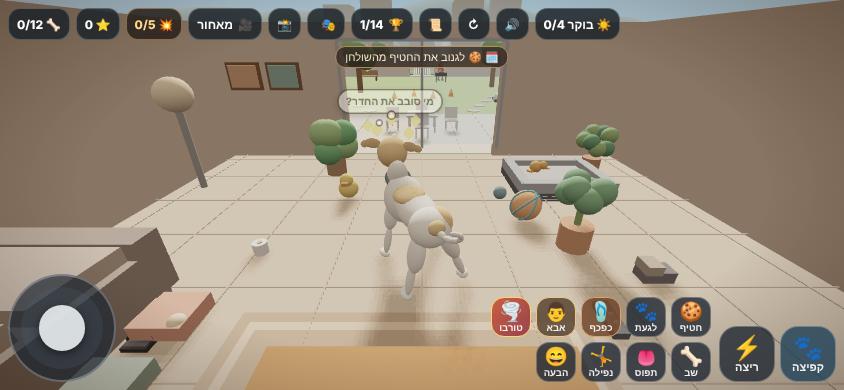
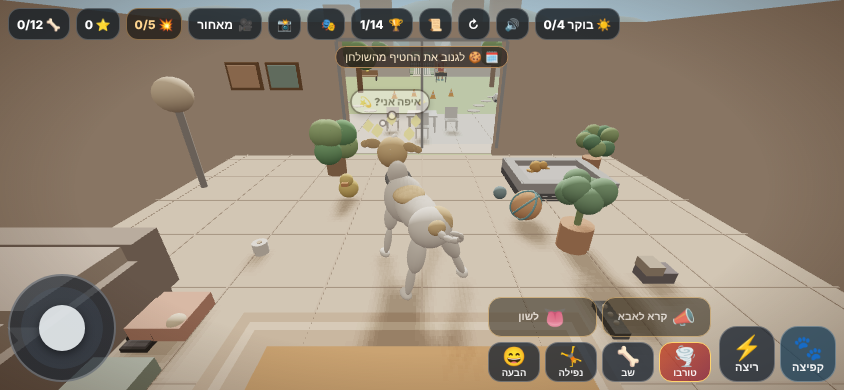
v21: instant touch buttons (fire on touch-down, multi-touch safe) + smart context buttons (action / grab)
Claude-Session: https://claude.ai/code/session_01MaZxSxBw2V6AYJVaa3z3wg

Changed region(s): [[0.5545, 0.7385, 0.8626, 0.9846], [0.4005, 0.2154, 0.5237, 0.3385]]

diff --git a/dist/index.html b/dist/index.html
@@ -152,6 +152,18 @@ body.photoMode #uiTop,body.photoMode #controls,body.photoMode #drawers,body.phot
 #photoBar button{width:48px;height:48px;border-radius:50%;border:1px solid #ffffff40;background:#2a3038;color:#fff;font-size:20px;cursor:pointer;touch-action:manipulation}
 #photoBar #photoSnap{width:64px;height:64px;font-size:28px;background:#f2b84b;border-color:#fff}
 #photoBar p{flex-basis:100%;margin:0;text-align:center;font:600 11px system-ui;color:#fff9;}
+
+/* ---------- Smart controls: two context buttons that show what they will do ---------- */
+#snackBtn,#interactBtn,#slipperBtn,#dadInteractBtn,#tongueBtn{display:none!important}
+#icons{grid-template-columns:repeat(4,var(--b))!important}
+#icons .ctx{grid-column:span 2;background:#2a2116e0;border-color:#c9a160;font-size:22px;flex-direction:row;gap:6px;padding:0 6px}
+#icons .ctx small{font-size:12px;max-width:none}
+#icons .ctx.live{border-color:#ffd166;background:#5a3d14e6;box-shadow:0 0 0 2px #ffd16644}
+#icons .ctx.dim{opacity:.62}
+#icons .ctx.pulse{animation:ctxPulse .5s ease-out}
+@keyframes ctxPulse{0%{box-shadow:0 0 0 0 #ffd166cc}100%{box-shadow:0 0 0 10px #ffd16600}}
+@media (max-aspect-ratio:1/1){#icons{grid-template-columns:repeat(4,1fr)!important}}
+@media (max-height:480px){#icons{grid-template-columns:repeat(4,52px)!important}#icons .ctx{font-size:19px;gap:4px;padding:0 4px}#icons .ctx small{font-size:10.5px}}
 </style></head><body><div id="uiTop">
  <div id="hud"><h1>🐶 מילקי: ברדק אחולמניוקי</h1><p id="status">המשימה: גנוב את הכפכף של אבא והחבא אותו במיטה 🩴</p><button id="reset" class="chip" title="התחלה מחדש" aria-label="התחלה מחדש">↻</button></div>
  <div id="toolbar">
@@ -181,6 +193,8 @@ body.photoMode #uiTop,body.photoMode #controls,body.photoMode #drawers,body.phot
  <div id="pad"><span class="empty"></span><button class="tb" data-key="KeyW" aria-label="קדימה">▲</button><span class="empty"></span><button class="tb" data-key="KeyA" aria-label="שמאלה">◀</button><button class="tb" data-key="KeyS" aria-label="אחורה">▼</button><button class="tb" data-key="KeyD" aria-label="ימינה">▶</button></div>
  <div id="stick" role="application" aria-label="ג׳ויסטיק תנועה"><div id="knob"></div></div>
  <div id="icons">
+  <button id="actBtn" class="tb ctx" type="button" title="פעולה (E)"><b>🐾</b><small>לגעת</small></button>
+  <button id="grabBtn" class="tb ctx" type="button" title="תפוס / שחרר (T)"><b>👅</b><small>תפוס</small></button>
   <button id="snackBtn" class="tb" title="חטיף (E על השולחן)"><b>🍪</b><small>חטיף</small></button>
   <button id="interactBtn" class="tb" title="לגעת בחפץ (E)"><b>🐾</b><small>לגעת</small></button>
   <button id="slipperBtn" class="tb" title="תפוס / שחרר כפכף (P)"><b>🩴</b><small>כפכף</small></button>
@@ -2082,7 +2096,7 @@ for(const c of roundBlockers()){
 }
 landingCooldown=Math.max(0,landingCooldown-dt);
 // Paws planted on the floor: stride rate matches ground speed (longer strides in a gallop), so the legs never treadmill.
-steps+=Math.abs(speed)*dt*THREE.MathUtils.lerp(3.35,1.95,runBlend)/MS;{const fp=Math.floor(steps/Math.PI);if(fp!==lastFootPhase){lastFootPhase=fp;if(grounded&&!rag.active&&lastDogSpeed>.6){SFX.step(lastDogSpeed>4,pos.z<-15.9);if(lastDogSpeed>4&&pos.z<-9.1)emit(pos.x-Math.sin(yaw)*.7*MS,.08,pos.z-Math.cos(yaw)*.7*MS,-Math.sin(yaw)*.6,.5,-Math.cos(yaw)*.6,'dust',.45)}}}updateToy(dt);updateScene(dt);updateChaos(dt);updateTurbo(dt);updateExtra(dt);updateKitchen(dt);updateDani(dt);updateYard(dt);updateDay(dt);updateModes(dt,performance.now()/1000);updateEvents(dt);if(window.BATH_READY)updateBath(dt);if(window.SHOP_READY)updateShop(dt);if(window.SICK_READY)updateSick(dt);if(window.PARK_READY)updatePark(dt);resolveBodies(dt);tickBubbles(dt);updateContextHint();if(chaosStage>=5)completeChallenge('chaos');
+steps+=Math.abs(speed)*dt*THREE.MathUtils.lerp(3.35,1.95,runBlend)/MS;{const fp=Math.floor(steps/Math.PI);if(fp!==lastFootPhase){lastFootPhase=fp;if(grounded&&!rag.active&&lastDogSpeed>.6){SFX.step(lastDogSpeed>4,pos.z<-15.9);if(lastDogSpeed>4&&pos.z<-9.1)emit(pos.x-Math.sin(yaw)*.7*MS,.08,pos.z-Math.cos(yaw)*.7*MS,-Math.sin(yaw)*.6,.5,-Math.cos(yaw)*.6,'dust',.45)}}}updateToy(dt);updateScene(dt);updateChaos(dt);updateTurbo(dt);updateExtra(dt);updateKitchen(dt);updateDani(dt);updateYard(dt);updateDay(dt);updateModes(dt,performance.now()/1000);updateEvents(dt);if(window.BATH_READY)updateBath(dt);if(window.SHOP_READY)updateShop(dt);if(window.SICK_READY)updateSick(dt);if(window.PARK_READY)updatePark(dt);if(window.CTRL_READY)updateCtxButtons(dt);resolveBodies(dt);tickBubbles(dt);updateContextHint();if(chaosStage>=5)completeChallenge('chaos');
 const moving=Math.abs(speed)>0.01;
 runBlend+=(THREE.MathUtils.smoothstep(Math.abs(speed),3.3,5.4)-runBlend)*Math.min(1,dt*6);
 const running=moving&&runBlend>.5;
@@ -2810,7 +2824,7 @@ function updateGuide(rdt,t){
  const p=PHOTO.on?null:currentTarget();
  if(!p){guide.visible=false;guideArrow.hidden=true;return}
  const dist=Math.hypot(p.x-pos.x,p.z-pos.z);
- guide.visible=dist>1.7;guide.position.set(p.x,(p.y||0)+.95+Math.sin(t*3)*.12,p.z);guide.rotation.y=t*1.6;
+ guide.position.set(p.x,(p.y||0)+.95+Math.sin(t*3)*.12,p.z);guide.rotation.y=t*1.6;guide.visible=dist>1.7&&guide.position.distanceTo(camera.position)>2.6;
  _gv.set(p.x,(p.y||0)+1,p.z).project(camera);
  const off=_gv.z>1||Math.abs(_gv.x)>.92||Math.abs(_gv.y)>.85;
  if(!off||dist<1.7){guideArrow.hidden=true;return}
@@ -3063,6 +3077,55 @@ function updatePark(dt){
 }
 window.PARK_READY=true;
 loadWeekPhases();renderDay();renderWeek();
+// ===== Smart touch controls: instant response + two context buttons (action / grab) =====
+const actBtn=document.getElementById('actBtn'),grabBtn=document.getElementById('grabBtn');
+const KIND_ICON={tp:'🧻',shampoo:'🧴',baguette:'🥖',tissues:'🤧',thermo:'🌡',bowl:'🥣',can:'🥫',receipt:'🧾',bottle:'🧴',book:'📚',shoe:'👟',duck:'🦆',remote:'📺',trash:'🗑',chair:'🪑',cone:'🔺',cooler:'🧊',bin:'🗑',soccer:'⚽',cushion:'🛋',box:'📦',ball:'⚽'};
+const KIND_NAME={tp:'נייר',shampoo:'שמפו',baguette:'בגט',tissues:'טישו',thermo:'מדחום',bowl:'קערה',can:'קופסה',receipt:'קבלה',bottle:'בקבוק',book:'ספר',shoe:'נעל',duck:'ברווז',remote:'שלט',trash:'פח',chair:'כיסא',cone:'קונוס',cooler:'צידנית',bin:'פח',soccer:'כדור',cushion:'כרית',box:'ארגז',ball:'כדור'};
+const ACT_LABEL={remote:'שלט',duck:'צפצף',bottle:'גלגל',shoe:'העף נעל',book:'פזר',trash:'הפוך פח',bowl:'לאכול',chair:'הפל',cone:'בעט',cooler:'דחוף',bin:'הפל',soccer:'בעט',tp:'גלגל',shampoo:'בועות',baguette:'דחוף',can:'בעט',receipt:'אכול קבלה',tissues:'דחוף',thermo:'דחוף'};
+function grabCandidate(){const m=mouthPos();let best=null,bd=1.45;for(const b of bodies){if(carried.has(b.o)||!b.o.visible)continue;const d=Math.hypot(b.o.position.x-m.x,b.o.position.z-m.z)-b.r;if(d<bd){bd=d;best=b}}return best}
+function grabInfo(){
+ if(grab)return {i:'⬇',l:'שחרר',on:2,fn:toggleGrab};
+ if(slipperState==='carried')return {i:'⬇',l:'שחרר כפכף',on:2,fn:dropSlipper};
+ if(kebabState==='carried')return {i:'🍢',l:'ברח!',on:0,fn:()=>{}};
+ if(slipperState==='floor'&&Math.hypot(pos.x-slipper.position.x,pos.z-slipper.position.z)<1.45)return {i:'🩴',l:'כפכף',on:1,fn:stealSlipper};
+ if(nearMangal()&&kebabState==='grill')return {i:'🍢',l:'קבב!',on:1,fn:stealKebab};
+ const b=grabCandidate();
+ if(b){const small=b.r<=.3&&!BIG_KINDS.includes(b.kind);return {i:KIND_ICON[b.kind]||'👅',l:(small?'תפוס ':'גרור ')+(KIND_NAME[b.kind]||''),on:1,fn:toggleGrab}}
+ return {i:'👅',l:'לשון',on:0,fn:toggleGrab};
+}
+function actInfo(){
+ if(!won&&jumpY>=.78&&Math.hypot(pos.x-.5,pos.z-.3)<1.9&&snack.visible)return {i:'🍪',l:'חטיף!',on:1,fn:trySnack};
+ if(slipperState==='carried')return {i:'⬇',l:'שחרר',on:2,fn:dropSlipper};
+ if(nearSausage())return {i:'🌭',l:'נקניקייה',on:1,fn:interact};
+ if(nearFridge())return {i:'🧊',l:fridgeOpen?'סגור מקרר':'פתח מקרר',on:1,fn:interact};
+ if(nearMangal()&&kebabState==='grill')return {i:'🍢',l:'קבב!',on:1,fn:interact};
+ const dd=dad.visible?Math.hypot(pos.x-dad.position.x,pos.z-dad.position.z):99;
+ let near=null,d=1.65;for(const p of extras){if(!p.g.visible||carried.has(p.g))continue;const q=Math.hypot(pos.x-p.g.position.x,pos.z-p.g.position.z);if(q<d){near=p;d=q}}
+ if(dd<1.9&&(!near||dd<d))return {i:'👨',l:'ליטוף',on:1,fn:interactDad};
+ if(near)return {i:KIND_ICON[near.kind]||'🐾',l:ACT_LABEL[near.kind]||'לגעת',on:1,fn:interact};
+ if(dad.visible&&dadState!=='away')return {i:'📣',l:'קרא לאבא',on:0,fn:interactDad};
+ return {i:'🐽',l:'רחרח',on:0,fn:interact};
+}
+let ctxT=0,ctxAct=null,ctxGrab=null;
+function paintCtx(btn,info,prev){
+ if(prev&&prev.i===info.i&&prev.l===info.l&&prev.on===info.on)return;
+ btn.firstChild.textContent=info.i;btn.lastChild.textContent=info.l;btn.classList.toggle('live',info.on>=1);btn.classList.toggle('dim',info.on===0);
+ if(info.on>=1&&(!prev||prev.on===0||prev.l!==info.l)){btn.classList.remove('pulse');void btn.offsetWidth;btn.classList.add('pulse')}
+}
+function updateCtxButtons(dt){
+ ctxT-=dt;if(ctxT>0)return;ctxT=.1;
+ const a=actInfo(),g=grabInfo();paintCtx(actBtn,a,ctxAct);paintCtx(grabBtn,g,ctxGrab);ctxAct=a;ctxGrab=g;
+}
+actBtn.addEventListener('click',()=>{if(!started)return;const a=actInfo();a.fn();ctxT=0});
+grabBtn.addEventListener('click',()=>{if(!started)return;const g=grabInfo();g.fn();ctxT=0});
+// Instant buttons: fire on touch-down (works while the other thumb holds the joystick), swallow the late click.
+let ctrlAllowClick=false;
+window.addEventListener('click',e=>{const b=e.target.closest&&e.target.closest('#controls .tb:not([data-key])');if(!b||ctrlAllowClick)return;if(performance.now()-(b._pd||0)<900){e.stopImmediatePropagation();e.preventDefault()}},true);
+document.querySelectorAll('#controls .tb:not([data-key])').forEach(b=>{
+ b.addEventListener('pointerdown',e=>{if(e.button>0)return;e.preventDefault();b._pd=performance.now();b.classList.add('down');setTimeout(()=>b.classList.remove('down'),130);ctrlAllowClick=true;try{b.click()}finally{ctrlAllowClick=false}});
+ b.addEventListener('contextmenu',e=>e.preventDefault());
+});
+window.CTRL_READY=true;
 (function mergeAll(){
  scene.updateMatrixWorld(true);
  // 1) Static scenery: merge per area, so whole rooms you cannot see are skipped by the GPU.

diff --git a/dist/artifact.html b/dist/artifact.html
@@ -155,6 +155,18 @@ body.photoMode #uiTop,body.photoMode #controls,body.photoMode #drawers,body.phot
 #photoBar button{width:48px;height:48px;border-radius:50%;border:1px solid #ffffff40;background:#2a3038;color:#fff;font-size:20px;cursor:pointer;touch-action:manipulation}
 #photoBar #photoSnap{width:64px;height:64px;font-size:28px;background:#f2b84b;border-color:#fff}
 #photoBar p{flex-basis:100%;margin:0;text-align:center;font:600 11px system-ui;color:#fff9;}
+
+/* ---------- Smart controls: two context buttons that show what they will do ---------- */
+#snackBtn,#interactBtn,#slipperBtn,#dadInteractBtn,#tongueBtn{display:none!important}
+#icons{grid-template-columns:repeat(4,var(--b))!important}
+#icons .ctx{grid-column:span 2;background:#2a2116e0;border-color:#c9a160;font-size:22px;flex-direction:row;gap:6px;padding:0 6px}
+#icons .ctx small{font-size:12px;max-width:none}
+#icons .ctx.live{border-color:#ffd166;background:#5a3d14e6;box-shadow:0 0 0 2px #ffd16644}
+#icons .ctx.dim{opacity:.62}
+#icons .ctx.pulse{animation:ctxPulse .5s ease-out}
+@keyframes ctxPulse{0%{box-shadow:0 0 0 0 #ffd166cc}100%{box-shadow:0 0 0 10px #ffd16600}}
+@media (max-aspect-ratio:1/1){#icons{grid-template-columns:repeat(4,1fr)!important}}
+@media (max-height:480px){#icons{grid-template-columns:repeat(4,52px)!important}#icons .ctx{font-size:19px;gap:4px;padding:0 4px}#icons .ctx small{font-size:10.5px}}
 </style>
 <div id="uiTop">
  <div id="hud"><h1>🐶 מילקי: ברדק אחולמניוקי</h1><p id="status">המשימה: גנוב את הכפכף של אבא והחבא אותו במיטה 🩴</p><button id="reset" class="chip" title="התחלה מחדש" aria-label="התחלה מחדש">↻</button></div>
@@ -185,6 +197,8 @@ body.photoMode #uiTop,body.photoMode #controls,body.photoMode #drawers,body.phot
  <div id="pad"><span class="empty"></span><button class="tb" data-key="KeyW" aria-label="קדימה">▲</button><span class="empty"></span><button class="tb" data-key="KeyA" aria-label="שמאלה">◀</button><button class="tb" data-key="KeyS" aria-label="אחורה">▼</button><button class="tb" data-key="KeyD" aria-label="ימינה">▶</button></div>
  <div id="stick" role="application" aria-label="ג׳ויסטיק תנועה"><div id="knob"></div></div>
  <div id="icons">
+  <button id="actBtn" class="tb ctx" type="button" title="פעולה (E)"><b>🐾</b><small>לגעת</small></button>
+  <button id="grabBtn" class="tb ctx" type="button" title="תפוס / שחרר (T)"><b>👅</b><small>תפוס</small></button>
   <button id="snackBtn" class="tb" title="חטיף (E על השולחן)"><b>🍪</b><small>חטיף</small></button>
   <button id="interactBtn" class="tb" title="לגעת בחפץ (E)"><b>🐾</b><small>לגעת</small></button>
   <button id="slipperBtn" class="tb" title="תפוס / שחרר כפכף (P)"><b>🩴</b><small>כפכף</small></button>
@@ -2084,7 +2098,7 @@ for(const c of roundBlockers()){
 }
 landingCooldown=Math.max(0,landingCooldown-dt);
 // Paws planted on the floor: stride rate matches ground speed (longer strides in a gallop), so the legs never treadmill.
-steps+=Math.abs(speed)*dt*THREE.MathUtils.lerp(3.35,1.95,runBlend)/MS;{const fp=Math.floor(steps/Math.PI);if(fp!==lastFootPhase){lastFootPhase=fp;if(grounded&&!rag.active&&lastDogSpeed>.6){SFX.step(lastDogSpeed>4,pos.z<-15.9);if(lastDogSpeed>4&&pos.z<-9.1)emit(pos.x-Math.sin(yaw)*.7*MS,.08,pos.z-Math.cos(yaw)*.7*MS,-Math.sin(yaw)*.6,.5,-Math.cos(yaw)*.6,'dust',.45)}}}updateToy(dt);updateScene(dt);updateChaos(dt);updateTurbo(dt);updateExtra(dt);updateKitchen(dt);updateDani(dt);updateYard(dt);updateDay(dt);updateModes(dt,performance.now()/1000);updateEvents(dt);if(window.BATH_READY)updateBath(dt);if(window.SHOP_READY)updateShop(dt);if(window.SICK_READY)updateSick(dt);if(window.PARK_READY)updatePark(dt);resolveBodies(dt);tickBubbles(dt);updateContextHint();if(chaosStage>=5)completeChallenge('chaos');
+steps+=Math.abs(speed)*dt*THREE.MathUtils.lerp(3.35,1.95,runBlend)/MS;{const fp=Math.floor(steps/Math.PI);if(fp!==lastFootPhase){lastFootPhase=fp;if(grounded&&!rag.active&&lastDogSpeed>.6){SFX.step(lastDogSpeed>4,pos.z<-15.9);if(lastDogSpeed>4&&pos.z<-9.1)emit(pos.x-Math.sin(yaw)*.7*MS,.08,pos.z-Math.cos(yaw)*.7*MS,-Math.sin(yaw)*.6,.5,-Math.cos(yaw)*.6,'dust',.45)}}}updateToy(dt);updateScene(dt);updateChaos(dt);updateTurbo(dt);updateExtra(dt);updateKitchen(dt);updateDani(dt);updateYard(dt);updateDay(dt);updateModes(dt,performance.now()/1000);updateEvents(dt);if(window.BATH_READY)updateBath(dt);if(window.SHOP_READY)updateShop(dt);if(window.SICK_READY)updateSick(dt);if(window.PARK_READY)updatePark(dt);if(window.CTRL_READY)updateCtxButtons(dt);resolveBodies(dt);tickBubbles(dt);updateContextHint();if(chaosStage>=5)completeChallenge('chaos');
 const moving=Math.abs(speed)>0.01;
 runBlend+=(THREE.MathUtils.smoothstep(Math.abs(speed),3.3,5.4)-runBlend)*Math.min(1,dt*6);
 const running=moving&&runBlend>.5;
@@ -2812,7 +2826,7 @@ function updateGuide(rdt,t){
  const p=PHOTO.on?null:currentTarget();
  if(!p){guide.visible=false;guideArrow.hidden=true;return}
  const dist=Math.hypot(p.x-pos.x,p.z-pos.z);
- guide.visible=dist>1.7;guide.position.set(p.x,(p.y||0)+.95+Math.sin(t*3)*.12,p.z);guide.rotation.y=t*1.6;
+ guide.position.set(p.x,(p.y||0)+.95+Math.sin(t*3)*.12,p.z);guide.rotation.y=t*1.6;guide.visible=dist>1.7&&guide.position.distanceTo(camera.position)>2.6;
  _gv.set(p.x,(p.y||0)+1,p.z).project(camera);
  const off=_gv.z>1||Math.abs(_gv.x)>.92||Math.abs(_gv.y)>.85;
  if(!off||dist<1.7){guideArrow.hidden=true;return}
@@ -3065,6 +3079,55 @@ function updatePark(dt){
 }
 window.PARK_READY=true;
 loadWeekPhases();renderDay();renderWeek();
+// ===== Smart touch controls: instant response + two context buttons (action / grab) =====
+const actBtn=document.getElementById('actBtn'),grabBtn=document.getElementById('grabBtn');
+const KIND_ICON={tp:'🧻',shampoo:'🧴',baguette:'🥖',tissues:'🤧',thermo:'🌡',bowl:'🥣',can:'🥫',receipt:'🧾',bottle:'🧴',book:'📚',shoe:'👟',duck:'🦆',remote:'📺',trash:'🗑',chair:'🪑',cone:'🔺',cooler:'🧊',bin:'🗑',soccer:'⚽',cushion:'🛋',box:'📦',ball:'⚽'};
+const KIND_NAME={tp:'נייר',shampoo:'שמפו',baguette:'בגט',tissues:'טישו',thermo:'מדחום',bowl:'קערה',can:'קופסה',receipt:'קבלה',bottle:'בקבוק',book:'ספר',shoe:'נעל',duck:'ברווז',remote:'שלט',trash:'פח',chair:'כיסא',cone:'קונוס',cooler:'צידנית',bin:'פח',soccer:'כדור',cushion:'כרית',box:'ארגז',ball:'כדור'};
+const ACT_LABEL={remote:'שלט',duck:'צפצף',bottle:'גלגל',shoe:'העף נעל',book:'פזר',trash:'הפוך פח',bowl:'לאכול',chair:'הפל',cone:'בעט',cooler:'דחוף',bin:'הפל',soccer:'בעט',tp:'גלגל',shampoo:'בועות',baguette:'דחוף',can:'בעט',receipt:'אכול קבלה',tissues:'דחוף',thermo:'דחוף'};
+function grabCandidate(){const m=mouthPos();let best=null,bd=1.45;for(const b of bodies){if(carried.has(b.o)||!b.o.visible)continue;const d=Math.hypot(b.o.position.x-m.x,b.o.position.z-m.z)-b.r;if(d<bd){bd=d;best=b}}return best}
+function grabInfo(){
+ if(grab)return {i:'⬇',l:'שחרר',on:2,fn:toggleGrab};
+ if(slipperState==='carried')return {i:'⬇',l:'שחרר כפכף',on:2,fn:dropSlipper};
+ if(kebabState==='carried')return {i:'🍢',l:'ברח!',on:0,fn:()=>{}};
+ if(slipperState==='floor'&&Math.hypot(pos.x-slipper.position.x,pos.z-slipper.position.z)<1.45)return {i:'🩴',l:'כפכף',on:1,fn:stealSlipper};
+ if(nearMangal()&&kebabState==='grill')return {i:'🍢',l:'קבב!',on:1,fn:stealKebab};
+ const b=grabCandidate();
+ if(b){const small=b.r<=.3&&!BIG_KINDS.includes(b.kind);return {i:KIND_ICON[b.kind]||'👅',l:(small?'תפוס ':'גרור ')+(KIND_NAME[b.kind]||''),on:1,fn:toggleGrab}}
+ return {i:'👅',l:'לשון',on:0,fn:toggleGrab};
+}
+function actInfo(){
+ if(!won&&jumpY>=.78&&Math.hypot(pos.x-.5,pos.z-.3)<1.9&&snack.visible)return {i:'🍪',l:'חטיף!',on:1,fn:trySnack};
+ if(slipperState==='carried')return {i:'⬇',l:'שחרר',on:2,fn:dropSlipper};
+ if(nearSausage())return {i:'🌭',l:'נקניקייה',on:1,fn:interact};
+ if(nearFridge())return {i:'🧊',l:fridgeOpen?'סגור מקרר':'פתח מקרר',on:1,fn:interact};
+ if(nearMangal()&&kebabState==='grill')return {i:'🍢',l:'קבב!',on:1,fn:interact};
+ const dd=dad.visible?Math.hypot(pos.x-dad.position.x,pos.z-dad.position.z):99;
+ let near=null,d=1.65;for(const p of extras){if(!p.g.visible||carried.has(p.g))continue;const q=Math.hypot(pos.x-p.g.position.x,pos.z-p.g.position.z);if(q<d){near=p;d=q}}
+ if(dd<1.9&&(!near||dd<d))return {i:'👨',l:'ליטוף',on:1,fn:interactDad};
+ if(near)return {i:KIND_ICON[near.kind]||'🐾',l:ACT_LABEL[near.kind]||'לגעת',on:1,fn:interact};
+ if(dad.visible&&dadState!=='away')return {i:'📣',l:'קרא לאבא',on:0,fn:interactDad};
+ return {i:'🐽',l:'רחרח',on:0,fn:interact};
+}
+let ctxT=0,ctxAct=null,ctxGrab=null;
+function paintCtx(btn,info,prev){
+ if(prev&&prev.i===info.i&&prev.l===info.l&&prev.on===info.on)return;
+ btn.firstChild.textContent=info.i;btn.lastChild.textContent=info.l;btn.classList.toggle('live',info.on>=1);btn.classList.toggle('dim',info.on===0);
+ if(info.on>=1&&(!prev||prev.on===0||prev.l!==info.l)){btn.classList.remove('pulse');void btn.offsetWidth;btn.classList.add('pulse')}
+}
+function updateCtxButtons(dt){
+ ctxT-=dt;if(ctxT>0)return;ctxT=.1;
+ const a=actInfo(),g=grabInfo();paintCtx(actBtn,a,ctxAct);paintCtx(grabBtn,g,ctxGrab);ctxAct=a;ctxGrab=g;
+}
+actBtn.addEventListener('click',()=>{if(!started)return;const a=actInfo();a.fn();ctxT=0});
+grabBtn.addEventListener('click',()=>{if(!started)return;const g=grabInfo();g.fn();ctxT=0});
+// Instant buttons: fire on touch-down (works while the other thumb holds the joystick), swallow the late click.
+let ctrlAllowClick=false;
+window.addEventListener('click',e=>{const b=e.target.closest&&e.target.closest('#controls .tb:not([data-key])');if(!b||ctrlAllowClick)return;if(performance.now()-(b._pd||0)<900){e.stopImmediatePropagation();e.preventDefault()}},true);
+document.querySelectorAll('#controls .tb:not([data-key])').forEach(b=>{
+ b.addEventListener('pointerdown',e=>{if(e.button>0)return;e.preventDefault();b._pd=performance.now();b.classList.add('down');setTimeout(()=>b.classList.remove('down'),130);ctrlAllowClick=true;try{b.click()}finally{ctrlAllowClick=false}});
+ b.addEventListener('contextmenu',e=>e.preventDefault());
+});
+window.CTRL_READY=true;
 (function mergeAll(){
  scene.updateMatrixWorld(true);
  // 1) Static scenery: merge per area, so whole rooms you cannot see are skipped by the GPU.

diff --git a/src/js/52-controls.js b/src/js/52-controls.js
@@ -1,0 +1,49 @@
+// ===== Smart touch controls: instant response + two context buttons (action / grab) =====
+const actBtn=document.getElementById('actBtn'),grabBtn=document.getElementById('grabBtn');
+const KIND_ICON={tp:'🧻',shampoo:'🧴',baguette:'🥖',tissues:'🤧',thermo:'🌡',bowl:'🥣',can:'🥫',receipt:'🧾',bottle:'🧴',book:'📚',shoe:'👟',duck:'🦆',remote:'📺',trash:'🗑',chair:'🪑',cone:'🔺',cooler:'🧊',bin:'🗑',soccer:'⚽',cushion:'🛋',box:'📦',ball:'⚽'};
+const KIND_NAME={tp:'נייר',shampoo:'שמפו',baguette:'בגט',tissues:'טישו',thermo:'מדחום',bowl:'קערה',can:'קופסה',receipt:'קבלה',bottle:'בקבוק',book:'ספר',shoe:'נעל',duck:'ברווז',remote:'שלט',trash:'פח',chair:'כיסא',cone:'קונוס',cooler:'צידנית',bin:'פח',soccer:'כדור',cushion:'כרית',box:'ארגז',ball:'כדור'};
+const ACT_LABEL={remote:'שלט',duck:'צפצף',bottle:'גלגל',shoe:'העף נעל',book:'פזר',trash:'הפוך פח',bowl:'לאכול',chair:'הפל',cone:'בעט',cooler:'דחוף',bin:'הפל',soccer:'בעט',tp:'גלגל',shampoo:'בועות',baguette:'דחוף',can:'בעט',receipt:'אכול קבלה',tissues:'דחוף',thermo:'דחוף'};
+function grabCandidate(){const m=mouthPos();let best=null,bd=1.45;for(const b of bodies){if(carried.has(b.o)||!b.o.visible)continue;const d=Math.hypot(b.o.position.x-m.x,b.o.position.z-m.z)-b.r;if(d<bd){bd=d;best=b}}return best}
+function grabInfo(){
+ if(grab)return {i:'⬇',l:'שחרר',on:2,fn:toggleGrab};
+ if(slipperState==='carried')return {i:'⬇',l:'שחרר כפכף',on:2,fn:dropSlipper};
+ if(kebabState==='carried')return {i:'🍢',l:'ברח!',on:0,fn:()=>{}};
+ if(slipperState==='floor'&&Math.hypot(pos.x-slipper.position.x,pos.z-slipper.position.z)<1.45)return {i:'🩴',l:'כפכף',on:1,fn:stealSlipper};
+ if(nearMangal()&&kebabState==='grill')return {i:'🍢',l:'קבב!',on:1,fn:stealKebab};
+ const b=grabCandidate();
+ if(b){const small=b.r<=.3&&!BIG_KINDS.includes(b.kind);return {i:KIND_ICON[b.kind]||'👅',l:(small?'תפוס ':'גרור ')+(KIND_NAME[b.kind]||''),on:1,fn:toggleGrab}}
+ return {i:'👅',l:'לשון',on:0,fn:toggleGrab};
+}
+function actInfo(){
+ if(!won&&jumpY>=.78&&Math.hypot(pos.x-.5,pos.z-.3)<1.9&&snack.visible)return {i:'🍪',l:'חטיף!',on:1,fn:trySnack};
+ if(slipperState==='carried')return {i:'⬇',l:'שחרר',on:2,fn:dropSlipper};
+ if(nearSausage())return {i:'🌭',l:'נקניקייה',on:1,fn:interact};
+ if(nearFridge())return {i:'🧊',l:fridgeOpen?'סגור מקרר':'פתח מקרר',on:1,fn:interact};
+ if(nearMangal()&&kebabState==='grill')return {i:'🍢',l:'קבב!',on:1,fn:interact};
+ const dd=dad.visible?Math.hypot(pos.x-dad.position.x,pos.z-dad.position.z):99;
+ let near=null,d=1.65;for(const p of extras){if(!p.g.visible||carried.has(p.g))continue;const q=Math.hypot(pos.x-p.g.position.x,pos.z-p.g.position.z);if(q<d){near=p;d=q}}
+ if(dd<1.9&&(!near||dd<d))return {i:'👨',l:'ליטוף',on:1,fn:interactDad};
+ if(near)return {i:KIND_ICON[near.kind]||'🐾',l:ACT_LABEL[near.kind]||'לגעת',on:1,fn:interact};
+ if(dad.visible&&dadState!=='away')return {i:'📣',l:'קרא לאבא',on:0,fn:interactDad};
+ return {i:'🐽',l:'רחרח',on:0,fn:interact};
+}
+let ctxT=0,ctxAct=null,ctxGrab=null;
+function paintCtx(btn,info,prev){
+ if(prev&&prev.i===info.i&&prev.l===info.l&&prev.on===info.on)return;
+ btn.firstChild.textContent=info.i;btn.lastChild.textContent=info.l;btn.classList.toggle('live',info.on>=1);btn.classList.toggle('dim',info.on===0);
+ if(info.on>=1&&(!prev||prev.on===0||prev.l!==info.l)){btn.classList.remove('pulse');void btn.offsetWidth;btn.classList.add('pulse')}
+}
+function updateCtxButtons(dt){
+ ctxT-=dt;if(ctxT>0)return;ctxT=.1;
+ const a=actInfo(),g=grabInfo();paintCtx(actBtn,a,ctxAct);paintCtx(grabBtn,g,ctxGrab);ctxAct=a;ctxGrab=g;
+}
+actBtn.addEventListener('click',()=>{if(!started)return;const a=actInfo();a.fn();ctxT=0});
+grabBtn.addEventListener('click',()=>{if(!started)return;const g=grabInfo();g.fn();ctxT=0});
+// Instant buttons: fire on touch-down (works while the other thumb holds the joystick), swallow the late click.
+let ctrlAllowClick=false;
+window.addEventListener('click',e=>{const b=e.target.closest&&e.target.closest('#controls .tb:not([data-key])');if(!b||ctrlAllowClick)return;if(performance.now()-(b._pd||0)<900){e.stopImmediatePropagation();e.preventDefault()}},true);
+document.querySelectorAll('#controls .tb:not([data-key])').forEach(b=>{
+ b.addEventListener('pointerdown',e=>{if(e.button>0)return;e.preventDefault();b._pd=performance.now();b.classList.add('down');setTimeout(()=>b.classList.remove('down'),130);ctrlAllowClick=true;try{b.click()}finally{ctrlAllowClick=false}});
+ b.addEventListener('contextmenu',e=>e.preventDefault());
+});
+window.CTRL_READY=true;

diff --git a/src/js/40-game-loop.js b/src/js/40-game-loop.js
@@ -75,7 +75,7 @@ for(const c of roundBlockers()){
 }
 landingCooldown=Math.max(0,landingCooldown-dt);
 // Paws planted on the floor: stride rate matches ground speed (longer strides in a gallop), so the legs never treadmill.
-steps+=Math.abs(speed)*dt*THREE.MathUtils.lerp(3.35,1.95,runBlend)/MS;{const fp=Math.floor(steps/Math.PI);if(fp!==lastFootPhase){lastFootPhase=fp;if(grounded&&!rag.active&&lastDogSpeed>.6){SFX.step(lastDogSpeed>4,pos.z<-15.9);if(lastDogSpeed>4&&pos.z<-9.1)emit(pos.x-Math.sin(yaw)*.7*MS,.08,pos.z-Math.cos(yaw)*.7*MS,-Math.sin(yaw)*.6,.5,-Math.cos(yaw)*.6,'dust',.45)}}}updateToy(dt);updateScene(dt);updateChaos(dt);updateTurbo(dt);updateExtra(dt);updateKitchen(dt);updateDani(dt);updateYard(dt);updateDay(dt);updateModes(dt,performance.now()/1000);updateEvents(dt);if(window.BATH_READY)updateBath(dt);if(window.SHOP_READY)updateShop(dt);if(window.SICK_READY)updateSick(dt);if(window.PARK_READY)updatePark(dt);resolveBodies(dt);tickBubbles(dt);updateContextHint();if(chaosStage>=5)completeChallenge('chaos');
+steps+=Math.abs(speed)*dt*THREE.MathUtils.lerp(3.35,1.95,runBlend)/MS;{const fp=Math.floor(steps/Math.PI);if(fp!==lastFootPhase){lastFootPhase=fp;if(grounded&&!rag.active&&lastDogSpeed>.6){SFX.step(lastDogSpeed>4,pos.z<-15.9);if(lastDogSpeed>4&&pos.z<-9.1)emit(pos.x-Math.sin(yaw)*.7*MS,.08,pos.z-Math.cos(yaw)*.7*MS,-Math.sin(yaw)*.6,.5,-Math.cos(yaw)*.6,'dust',.45)}}}updateToy(dt);updateScene(dt);updateChaos(dt);updateTurbo(dt);updateExtra(dt);updateKitchen(dt);updateDani(dt);updateYard(dt);updateDay(dt);updateModes(dt,performance.now()/1000);updateEvents(dt);if(window.BATH_READY)updateBath(dt);if(window.SHOP_READY)updateShop(dt);if(window.SICK_READY)updateSick(dt);if(window.PARK_READY)updatePark(dt);if(window.CTRL_READY)updateCtxButtons(dt);resolveBodies(dt);tickBubbles(dt);updateContextHint();if(chaosStage>=5)completeChallenge('chaos');
 const moving=Math.abs(speed)>0.01;
 runBlend+=(THREE.MathUtils.smoothstep(Math.abs(speed),3.3,5.4)-runBlend)*Math.min(1,dt*6);
 const running=moving&&runBlend>.5;

diff --git a/tests/controls.js b/tests/controls.js
@@ -1,0 +1,25 @@
+const {open}=require('./lib');
+(async()=>{const out={};
+ for(const vp of [{width:390,height:844},{width:844,height:390}]){
+  const {page,browser,errors}=await open(process.argv[2]||'dist/index.html',vp,{touch:true});
+  await page.evaluate(()=>{started=true;document.querySelector('#overlay').style.display='none';reset();const s=slipper.position;pos.set(s.x+.9,0,s.z);yaw=-Math.PI/2;camYaw=yaw});
+  await page.waitForTimeout(700);
+  const lab=await page.evaluate(()=>[actBtn.textContent,grabBtn.textContent,grabBtn.className]);
+  await page.screenshot({path:`tests/shots/ctrl_${vp.width}.png`});
+  // two-finger: hold the joystick, tap the grab button
+  const cdp=await page.context().newCDPSession(page);
+  const st=await page.evaluate(()=>{const r=document.getElementById('stick').getBoundingClientRect();return [r.x+r.width/2,r.y+r.height/2]});
+  const gb=await page.evaluate(()=>{const r=grabBtn.getBoundingClientRect();return [r.x+r.width/2,r.y+r.height/2]});
+  const P=(x,y,id)=>({x,y,id,radiusX:5,radiusY:5,force:1});
+  await cdp.send('Input.dispatchTouchEvent',{type:'touchStart',touchPoints:[P(st[0],st[1],1)]});
+  await cdp.send('Input.dispatchTouchEvent',{type:'touchMove',touchPoints:[P(st[0],st[1]-10,1)]});
+  const t0=Date.now();
+  await cdp.send('Input.dispatchTouchEvent',{type:'touchStart',touchPoints:[P(st[0],st[1]-10,1),P(gb[0],gb[1],2)]});
+  const firedAt=await page.evaluate(()=>slipperState);
+  await cdp.send('Input.dispatchTouchEvent',{type:'touchEnd',touchPoints:[P(st[0],st[1]-10,1)]});
+  await page.waitForTimeout(400);
+  await cdp.send('Input.dispatchTouchEvent',{type:'touchEnd',touchPoints:[]});
+  const after=await page.evaluate(()=>[slipperState,grabBtn.textContent]);
+  out[vp.width]={labels:lab,onTouchDown:firedAt,after,errors};
+  await browser.close()}
+ console.log(JSON.stringify(out))})();

diff --git a/src/styles.css b/src/styles.css
@@ -152,3 +152,15 @@ body.photoMode #uiTop,body.photoMode #controls,body.photoMode #drawers,body.phot
 #photoBar button{width:48px;height:48px;border-radius:50%;border:1px solid #ffffff40;background:#2a3038;color:#fff;font-size:20px;cursor:pointer;touch-action:manipulation}
 #photoBar #photoSnap{width:64px;height:64px;font-size:28px;background:#f2b84b;border-color:#fff}
 #photoBar p{flex-basis:100%;margin:0;text-align:center;font:600 11px system-ui;color:#fff9;}
+
+/* ---------- Smart controls: two context buttons that show what they will do ---------- */
+#snackBtn,#interactBtn,#slipperBtn,#dadInteractBtn,#tongueBtn{display:none!important}
+#icons{grid-template-columns:repeat(4,var(--b))!important}
+#icons .ctx{grid-column:span 2;background:#2a2116e0;border-color:#c9a160;font-size:22px;flex-direction:row;gap:6px;padding:0 6px}
+#icons .ctx small{font-size:12px;max-width:none}
+#icons .ctx.live{border-color:#ffd166;background:#5a3d14e6;box-shadow:0 0 0 2px #ffd16644}
+#icons .ctx.dim{opacity:.62}
+#icons .ctx.pulse{animation:ctxPulse .5s ease-out}
+@keyframes ctxPulse{0%{box-shadow:0 0 0 0 #ffd166cc}100%{box-shadow:0 0 0 10px #ffd16600}}
+@media (max-aspect-ratio:1/1){#icons{grid-template-columns:repeat(4,1fr)!important}}
+@media (max-height:480px){#icons{grid-template-columns:repeat(4,52px)!important}#icons .ctx{font-size:19px;gap:4px;padding:0 4px}#icons .ctx small{font-size:10.5px}}

diff --git a/src/body.html b/src/body.html
@@ -27,6 +27,8 @@
  <div id="pad"><span class="empty"></span><button class="tb" data-key="KeyW" aria-label="קדימה">▲</button><span class="empty"></span><button class="tb" data-key="KeyA" aria-label="שמאלה">◀</button><button class="tb" data-key="KeyS" aria-label="אחורה">▼</button><button class="tb" data-key="KeyD" aria-label="ימינה">▶</button></div>
  <div id="stick" role="application" aria-label="ג׳ויסטיק תנועה"><div id="knob"></div></div>
  <div id="icons">
+  <button id="actBtn" class="tb ctx" type="button" title="פעולה (E)"><b>🐾</b><small>לגעת</small></button>
+  <button id="grabBtn" class="tb ctx" type="button" title="תפוס / שחרר (T)"><b>👅</b><small>תפוס</small></button>
   <button id="snackBtn" class="tb" title="חטיף (E על השולחן)"><b>🍪</b><small>חטיף</small></button>
   <button id="interactBtn" class="tb" title="לגעת בחפץ (E)"><b>🐾</b><small>לגעת</small></button>
   <button id="slipperBtn" class="tb" title="תפוס / שחרר כפכף (P)"><b>🩴</b><small>כפכף</small></button>

diff --git a/dist/sw.js b/dist/sw.js
@@ -1,5 +1,5 @@
 // Offline cache: the whole game is a handful of files. New build = new cache name.
-const CACHE='milky-20-f3f3e361',FILES=["./", "index.html", "manifest.webmanifest", "vendor/three.min.js", "icons/apple-touch-icon.png", "icons/icon-192.png", "icons/icon-512.png", "icons/icon-maskable-512.png"];
+const CACHE='milky-21-2c8b466d',FILES=["./", "index.html", "manifest.webmanifest", "vendor/three.min.js", "icons/apple-touch-icon.png", "icons/icon-192.png", "icons/icon-512.png", "icons/icon-maskable-512.png"];
 self.addEventListener('install',e=>{e.waitUntil(caches.open(CACHE).then(c=>c.addAll(FILES)).then(()=>self.skipWaiting()))});
 self.addEventListener('activate',e=>{e.waitUntil(caches.keys().then(ks=>Promise.all(ks.filter(k=>k!==CACHE).map(k=>caches.delete(k)))).then(()=>self.clients.claim()))});
 self.addEventListener('fetch',e=>{

diff --git a/src/js/50-levelup.js b/src/js/50-levelup.js
@@ -31,7 +31,7 @@ function updateGuide(rdt,t){
  const p=PHOTO.on?null:currentTarget();
  if(!p){guide.visible=false;guideArrow.hidden=true;return}
  const dist=Math.hypot(p.x-pos.x,p.z-pos.z);
- guide.visible=dist>1.7;guide.position.set(p.x,(p.y||0)+.95+Math.sin(t*3)*.12,p.z);guide.rotation.y=t*1.6;
+ guide.position.set(p.x,(p.y||0)+.95+Math.sin(t*3)*.12,p.z);guide.rotation.y=t*1.6;guide.visible=dist>1.7&&guide.position.distanceTo(camera.position)>2.6;
  _gv.set(p.x,(p.y||0)+1,p.z).project(camera);
  const off=_gv.z>1||Math.abs(_gv.x)>.92||Math.abs(_gv.y)>.85;
  if(!off||dist<1.7){guideArrow.hidden=true;return}
